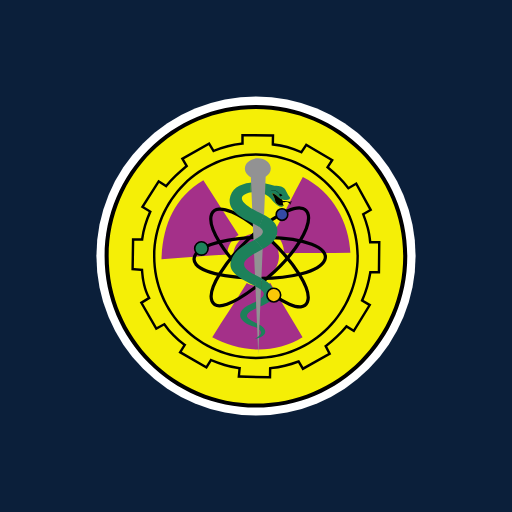
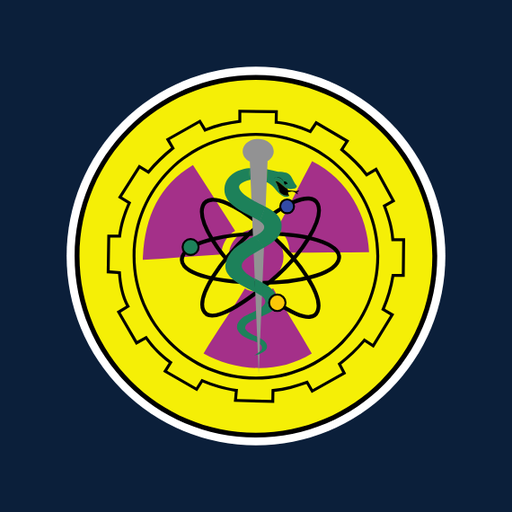
Cor da capa, telas vazias, cadastro com progresso, microanimações, ícone maior e acessibilidade
Claude-Session: https://claude.ai/code/session_017PQmU9A7DKhoiwEZxoice1

Changed region(s): [[0.125, 0.125, 0.875, 0.875]]

diff --git a/app.js b/app.js
@@ -337,6 +337,12 @@ let installEvt = null;
 const standalone = () => (window.matchMedia && window.matchMedia('(display-mode: standalone)').matches) || window.navigator.standalone === true;
 const installBtn = (cls = 'btn out') => (standalone() ? '' : `<button class="${cls}" data-action="install">${ic('download', 18)} Instalar app</button>`);
 
+function catEmpty() {
+  if (ui.cat === 'enquete') return emptyState('poll', 'Nenhuma enquete ainda', 'Crie uma enquete e ouça a opinião dos colegas.', 'new-poll', 'Criar enquete');
+  if (ui.cat === 'vagas') return emptyState('briefcase', 'Nenhuma vaga por aqui', 'Sabe de uma vaga? Divulgue para os colegas.', 'new-post', 'Divulgar vaga');
+  if (ui.cat === 'cursos') return emptyState('book', 'Nenhum curso por aqui', 'Indique um curso ou treinamento que vale a pena.', 'new-post', 'Indicar curso');
+  return emptyState('msg', 'Nada por aqui ainda', 'Seja o primeiro a publicar nesta região.', 'new-post', 'Publicar agora');
+}
 function screenWelcome() {
   return `<main class="welcome">
     <div class="wlogo">${emblem({ size: 128, text: false })}</div>
@@ -385,11 +391,12 @@ function screenSignup() {
     return `<main class="pad fit">
     <button class="ghost back" data-action="go-welcome">← Voltar</button>
     <div class="authlogo"><div class="wlogo">${emblem({ size: 76, text: false })}</div><div class="brand">UniRad</div></div>
-    <h2>Criar cadastro</h2>
+    <div class="prog" aria-label="Passo 1 de 2"><i class="on"></i><i></i></div>
+    <h2>Vamos começar</h2>
     <p class="muted">Passo 1 de 2 · seus dados de acesso</p>
     <form data-form="signup1" novalidate>
       <label>Nome completo <i class="req">*</i><input name="name" autocomplete="name" required minlength="5" placeholder="Seu nome" value="${esc(sd.name || '')}"></label>
-      <p class="muted small" style="margin-top:-4px">Depois você escolhe como seu nome aparece no app (só o primeiro nome, apelido…) em Perfil.</p>
+      <p class="muted small" style="margin-top:-4px">Depois você escolhe como seu nome aparece no app.</p>
       <label>E-mail <i class="req">*</i><input name="email" type="email" autocomplete="email" required placeholder="voce@email.com" value="${esc(sd.email || '')}"></label>
       ${pw('password', 'Senha', 'Mínimo 6 caracteres', 'new-password', sd.password || '')}
       ${pw('password2', 'Confirmar senha', 'Repita a senha', 'new-password', sd.password || '')}
@@ -400,8 +407,9 @@ function screenSignup() {
   }
   return `<main class="pad">
     <button class="ghost back" data-action="signup-back">← Voltar</button>
-    <h2>Criar cadastro</h2>
-    <p class="muted">Passo 2 de 2 · seu registro profissional</p>
+    <div class="prog" aria-label="Passo 2 de 2"><i class="on"></i><i class="on"></i></div>
+    <h2>Seu registro profissional</h2>
+    <p class="muted">Passo 2 de 2 · só quem tem CRTR entra</p>
     <form data-form="signup" novalidate>
       <label>Função <i class="req">*</i>
         <select name="role" id="roleSel" required><option value="">Selecione</option><option>Técnico em Radiologia</option><option>Tecnólogo em Radiologia</option></select></label>
@@ -413,7 +421,7 @@ function screenSignup() {
         <div class="picked" id="picked">${pickedHtml()}</div>
         <div class="reglist short" id="reglist">${regionListHtml()}</div>
       </div>
-      <p class="muted small">Seu perfil é visível para os colegas. Em cada post ou comentário você escolhe se quer publicar de forma anônima.</p>
+      <p class="muted small">${ic('lock', 14)} Seu CRTR nunca aparece para os outros. Em cada post você escolhe se quer ficar anônimo.</p>
       <label class="check"><input type="checkbox" name="terms" required><span>Li e aceito as <a href="#" data-action="show-terms">regras do UniRad</a> <i class="req">*</i></span></label>
       <div class="error" id="formError" role="alert"></div>
       <button class="btn big" type="submit">Criar cadastro</button>
@@ -598,7 +606,7 @@ function screenHome() {
     ${shortcuts()}
     ${viewSwitch(Store.mode === 'api')}
     ${composer()}
-    ${!ui.posts ? loadingBox : ui.posts.map(postCard).join('') || (ui.view === 'seguindo' ? emptyState('users', 'Você ainda não segue ninguém', 'Toque no nome de um colega e escolha Seguir para ver as publicações dele aqui.', 'open-search', 'Buscar colegas') : emptyState('msg', 'Nada por aqui ainda', 'Seja o primeiro a publicar nesta região.', 'new-post', 'Publicar agora'))}
+    ${!ui.posts ? loadingBox : ui.posts.map(postCard).join('') || (ui.view === 'seguindo' ? emptyState('users', 'Você ainda não segue ninguém', 'Toque no nome de um colega e escolha Seguir para ver as publicações dele aqui.', 'open-search', 'Buscar colegas') : catEmpty())}
     ${ui.more ? '<button class="btn out" data-action="load-more">Ver mais publicações</button>' : ''}
   </main>`;
 }
@@ -631,7 +639,7 @@ function screenDelays() {
     </div>
     <div class="row gap8"><button class="btn big" style="flex:1" data-action="new-delay">${ic('plus', 18)} Relatar atraso</button>${Store.mode === 'api' ? `<button class="btn big out" style="flex:1" data-action="pick-place">Avaliar local</button>` : ''}</div>
 
-    ${delays.recent && delays.recent.length ? `<h3 class="sec">Relatos recentes</h3><div class="list">${delays.recent.map((r) => `<div class="lrow static"><span>${esc(r.type)}${r.days ? ` · ${r.days} dias` : ''}${r.months > 1 ? ` · ${r.months} meses` : ''}<br><span class="muted small">${ago(r.t)}</span></span><b class="redtxt">${esc(fmtMonth(r.month))}</b></div>`).join('')}</div>` : ''}
+    ${delays.recent && delays.recent.length ? `<h3 class="sec">Relatos recentes</h3><div class="list">${delays.recent.map((r) => `<div class="lrow static"><span>${esc(r.type)}${r.days ? ` · ${r.days} dias` : ''}${r.months > 1 ? ` · ${r.months} meses` : ''}<br><span class="muted small">${ago(r.t)}</span></span><b class="redtxt">${esc(fmtMonth(r.month))}</b></div>`).join('')}</div>` : emptyState('alert', 'Nenhum relato por aqui', 'Quando alguém relatar um atraso ou pagamento abaixo do piso, aparece aqui. Seu relato pode ser anônimo.', 'new-delay', 'Relatar atraso')}
     ${delays.top.length ? `<div class="card"><div class="small muted">Locais mais citados</div>${delays.top.map((t) => `<div class="row between li"><span>${esc(t.hospital)}</span><b>${t.n} relatos</b></div>`).join('')}</div>`
       : `<p class="muted small">Locais aparecem aqui quando houver ao menos ${CONFIG.hideHospitalBelow} relatos sobre o mesmo, para proteger quem relata.</p>`}
   </main>`;
@@ -891,7 +899,7 @@ function screenRights() {
     ${conselhoSection()}
     ${Store.mode === 'api' && ui.union ? `<div class="unioncard"><b>Um sindicato para a nossa categoria</b>
       <p><b>${ui.union.count}</b> ${ui.union.count === 1 ? 'profissional apoia' : 'profissionais apoiam'} · meta ${unionGoal(ui.union.count)}</p>
-      <div class="ubar" role="progressbar" aria-valuemin="0" aria-valuemax="${unionGoal(ui.union.count)}" aria-valuenow="${ui.union.count}"><i style="width:${Math.max(2, Math.min(100, Math.round((ui.union.count / unionGoal(ui.union.count)) * 100)))}%"></i></div>
+      <div class="ubar" role="progressbar" aria-label="Progresso da meta do sindicato" aria-valuemin="0" aria-valuemax="${unionGoal(ui.union.count)}" aria-valuenow="${ui.union.count}"><i style="width:${Math.max(2, Math.min(100, Math.round((ui.union.count / unionGoal(ui.union.count)) * 100)))}%"></i></div>
       <p class="small">${ui.union.mine ? 'Seu apoio já conta.' : 'Seu apoio conta.'} Ninguém vê seu nome.</p>
       <button class="btn ${ui.union.mine ? 'out' : 'gold'}" data-action="union">${ui.union.mine ? 'Apoiando (tocar para retirar)' : 'Quero apoiar'}</button></div>` : ''}
     <div class="unioncard how plain"><b>Como criar um sindicato</b>
@@ -913,6 +921,7 @@ function profileForm(u) {
       <p class="muted small" style="margin-top:-4px">Pode ser só o primeiro nome, um apelido ou como preferir. Troca também nas suas publicações antigas (as anônimas continuam anônimas).</p>
       <p class="muted small">O resto é opcional. Só aparece para os outros membros quando você posta sem anonimato e alguém toca no seu nome. Seu CRTR, e-mail e senha nunca aparecem.</p>
       <label>Apresentação<input name="bio" maxlength="160" placeholder="Ex.: Técnico em radiologia há 8 anos, em Manaus" value="${esc(u.bio || '')}"></label>
+      <div class="field">Cor da capa<div class="covers" id="covers">${[0, 1, 2, 3, 4, 5].map((i) => `<button type="button" class="cvsw cv${i} ${(u.cover | 0) === i ? 'on' : ''}" data-action="pick-cover" data-v="${i}" aria-label="Capa ${i + 1}"></button>`).join('')}</div><input type="hidden" name="cover" value="${u.cover | 0}"></div>
       <label>Onde trabalha<input name="workplace" maxlength="80" placeholder="Ex.: Hospital Delfina" value="${esc(u.workplace || '')}"></label>
       <label>Capacitações<textarea name="trainings" rows="3" maxlength="500" placeholder="Cursos e treinamentos (tomografia, ressonância, radioproteção…)">${esc(u.trainings || '')}</textarea></label>
       <label>Experiências<textarea name="experience" rows="3" maxlength="500" placeholder="Onde já atuou e em quais áreas">${esc(u.experience || '')}</textarea></label>
@@ -938,7 +947,7 @@ function screenProfile() {
   const u = ui.user, api = Store.mode === 'api';
   const row = (act, label, cls = '') => `<button class="lrow ${cls}" data-action="${act}"><span>${label}</span>${ic('chev', 18)}</button>`;
   return `<main class="prof">
-    <section class="phero"><div class="pcover"></div>
+    <section class="phero"><div class="pcover cv${(u.cover | 0)}"></div>
       <div class="avwrap">${avatar(u.name, u.avatar, 'xl')}${api ? `<input type="file" id="avatarIn" accept="image/*" hidden><button class="avedit" data-action="change-avatar" aria-label="Trocar foto">${ic('camera', 16)}</button>` : ''}</div>
       <h2 class="pname">${esc(u.name)}${vbadge(u.verified)}</h2>
       <div class="muted">${esc(u.role)} · ${esc(regionLabel(u.region).split(' · ')[0])}</div>
@@ -987,7 +996,7 @@ function modalUser() {
   const list = ui.userPosts === null ? '<p class="muted small">Carregando…</p>' : ui.userPosts.length
     ? ui.userPosts.map((p) => `<div class="upost"><div class="muted small">${esc(CAT_NAME[p.cat] || 'Publicação')} · ${ago(p.t)}</div><div>${esc(p.text).slice(0, 220)}${p.text.length > 220 ? '…' : ''}</div></div>`).join('')
     : emptyState('msg', 'Nada por aqui ainda', 'Quando essa pessoa publicar abertamente, aparece aqui.');
-  return sheet(u.name, `<div class="uhero"><div class="pcover"></div>${big}${who}
+  return sheet(u.name, `<div class="uhero"><div class="pcover cv${(u.cover | 0)}"></div>${big}${who}
     ${u.bio ? `<div class="ubio">${esc(u.bio)}</div>` : ''}${u.workplace ? `<div class="pchips"><span class="pchip">${ic('pin', 14)} ${esc(u.workplace)}</span></div>` : ''}
     <div class="ustats"><div><b>${u.posts}</b><span>posts</span></div><div><b id="ufollowers">${u.followers}</b><span>seguidores</span></div><div><b>${u.following}</b><span>seguindo</span></div></div>
     ${followBtn(u)}
@@ -1081,7 +1090,7 @@ function modalFollowers() {
   return sheet('Seguidores e pedidos', `<h4 class="usec">Pedidos (${d.requests.length})</h4>
     ${d.requests.map((r) => row(r, `<button class="btn sm" data-action="req" data-act="approve" data-id="${r.id}">Aprovar</button><button class="btn out sm" data-action="req" data-act="decline" data-id="${r.id}">Recusar</button>`)).join('') || '<p class="muted small">Nenhum pedido no momento.</p>'}
     <h4 class="usec">Seguidores (${d.followers.length})</h4>
-    ${d.followers.map((r) => row(r, `<button class="btn out sm" data-action="req" data-act="remove" data-id="${r.id}">Remover</button>`)).join('') || '<p class="muted small">Ninguém segue você ainda.</p>'}`);
+    ${d.followers.map((r) => row(r, `<button class="btn out sm" data-action="req" data-act="remove" data-id="${r.id}">Remover</button>`)).join('') || emptyState('users', 'Ninguém segue você ainda', 'Publique e comente para os colegas encontrarem você.')}`);
 }
 
 const MESES_CURTO = ['Jan', 'Fev', 'Mar', 'Abr', 'Mai', 'Jun', 'Jul', 'Ago', 'Set', 'Out', 'Nov', 'Dez'];
@@ -1612,6 +1621,7 @@ document.addEventListener('click', async (ev) => {
       return refresh({ quiet: true });
     }
     if (a === 'copy-link') { try { await navigator.clipboard.writeText(location.origin); toast('Link copiado.'); } catch { toast(location.origin); } return; }
+    if (a === 'pick-cover') { const f = el.closest('form'); f.elements.cover.value = el.dataset.v; f.querySelectorAll('.cvsw').forEach((b) => b.classList.toggle('on', b === el)); const pv = document.querySelector('.cvprev'); return; }
     if (a === 'open-calc') return openModal('calc');
     if (a === 'calc-mode') { ui.calc.mode = el.dataset.v; return render(); }
     if (a === 'calc-esc') {
@@ -1809,7 +1819,7 @@ document.addEventListener('submit', async (ev) => {
     if (kind === 'profile') {
       const dn = String(d.get('dname') || '').trim().replace(/\s+/g, ' ');
       if (dn.length < 2) return err('Digite o nome que vai aparecer (mínimo 2 letras).');
-      const p = { name: dn, bio: String(d.get('bio') || '').trim(), trainings: String(d.get('trainings') || '').trim(), experience: String(d.get('experience') || '').trim(), workplace: String(d.get('workplace') || '').trim() };
+      const p = { name: dn, bio: String(d.get('bio') || '').trim(), trainings: String(d.get('trainings') || '').trim(), experience: String(d.get('experience') || '').trim(), workplace: String(d.get('workplace') || '').trim(), cover: Number(d.get('cover')) || 0 };
       busy(f, true);
       try { await Store.saveProfile(p); } finally { busy(f, false); }
       Object.assign(ui.user, p); toast('Perfil salvo.'); if (ui.modal === 'editprofile') closeModal();

diff --git a/styles.css b/styles.css
@@ -189,7 +189,7 @@ body.dark-welcome{background:var(--navy)}
 .drow[hidden],#vagaExtra[hidden],#pollExtra[hidden]{display:none}
 .composer .fake{white-space:nowrap;overflow:hidden;text-overflow:ellipsis}
 .invite{padding:14px}.invite p{margin:2px 0 8px}
-.btn.wa{background:#1fa855;color:#fff;text-decoration:none}
+.btn.wa{background:#14803d;color:#fff;text-decoration:none}
 .linkname{font:inherit;font-weight:600;color:inherit;padding:0;text-align:left}
 .linkname:active{text-decoration:underline}
 .ublk{margin:10px 0}.ublk p{margin:2px 0 0}
@@ -826,7 +826,7 @@ html[data-theme=dark] .story .lbl{color:var(--text)}
 .btn{background:var(--gold);color:var(--navy);font-weight:800;border-radius:26px;white-space:nowrap}
 .btn:disabled{opacity:.6}
 .btn.out{background:transparent;border:1.5px solid var(--navy);color:var(--navy);font-weight:700}
-.btn.wa{background:#1fa855;color:#fff}
+.btn.wa{background:#14803d;color:#fff}
 .btn.danger{color:var(--red);border-color:var(--red)}
 .btn.slim{background:transparent;border:0;color:#8fb8ff}
 .stickybtns .btn.out{flex:1}
@@ -841,7 +841,7 @@ input.sw:checked{background:var(--gold)}
 .utabs button.on::after{content:"";position:absolute;left:0;right:0;bottom:-1px;height:3px;border-radius:3px;background:var(--gold)}
 .unioncard.plain{background:var(--card);border:1px solid var(--line2);border-left:4px solid var(--gold);border-radius:14px}
 .unioncard.plain b{color:var(--text)}.unioncard.plain p{color:var(--muted)}
-html[data-theme=dark] .btn.wa{background:#1fa855;color:#fff}
+html[data-theme=dark] .btn.wa{background:#14803d;color:#fff}
 html[data-theme=dark] .btn.out{background:transparent;border-color:rgba(255,255,255,.5);color:#eef3ff}
 html[data-theme=dark] .btn.danger{color:#ff8a80;border-color:#ff8a80}
 html[data-theme=dark] .phd h2{color:var(--text)}
@@ -936,3 +936,26 @@ html[data-theme=dark] .empty .emic{color:var(--gold)}
 .cres.plain{background:var(--bg2,#f0f3f8);color:var(--text)}html[data-theme=dark] .cres.plain{background:#1b2538;color:#e8edf6}
 .money{font-weight:700;letter-spacing:.2px}
 #gsheet .utabs{margin:6px 0 10px}
+/* ---- capas do perfil ---- */
+.cv0{background:linear-gradient(135deg,#0b1f3a 0%,#1d4f8f 70%,#f5b301 190%)!important}
+.cv1{background:linear-gradient(135deg,#0d3b2e 0%,#1f8a5b 75%,#f5b301 200%)!important}
+.cv2{background:linear-gradient(135deg,#2a1450 0%,#6b3fb5 75%,#f58ac1 200%)!important}
+.cv3{background:linear-gradient(135deg,#7a2e0a 0%,#e0701f 75%,#f5d301 200%)!important}
+.cv4{background:linear-gradient(135deg,#4a0d1f 0%,#b3263f 75%,#f5b301 200%)!important}
+.cv5{background:linear-gradient(135deg,#1c2430 0%,#47566b 75%,#9fb3cc 200%)!important}
+.covers{display:flex;gap:10px;margin:6px 0 10px}
+.cvsw{width:44px;height:44px;border-radius:50%;border:3px solid transparent;padding:0;cursor:pointer;box-shadow:0 0 0 1px var(--line2)}
+.cvsw.on{border-color:var(--card);box-shadow:0 0 0 3px var(--gold)}
+/* ---- cadastro: progresso ---- */
+.prog{display:flex;gap:6px;margin:6px 0 14px}.prog i{flex:1;height:5px;border-radius:99px;background:var(--line2)}.prog i.on{background:var(--gold)}
+/* ---- microanimações ---- */
+.btn,.pill,.act,.nav button,.chip2,.srp,.calccard{transition:transform .12s ease,background-color .2s ease,color .2s ease,border-color .2s ease}
+.btn:active,.pill:active,.chip2:active,.calccard:active{transform:scale(.97)}
+.act:active{transform:scale(.88)}
+.nav button.on svg{animation:pop .3s ease}
+.sheet .utabs button{transition:color .2s ease,border-color .2s ease}
+.cres,.chora,.empty{animation:fadeUp .22s ease both}
+@keyframes fadeUp{from{opacity:0;transform:translateY(6px)}to{opacity:1;transform:none}}
+.chip2.on,.pill.on{animation:pop .22s ease}
+.toast{animation:fadeUp .2s ease both}
+@media (prefers-reduced-motion:reduce){.btn,.pill,.act,.nav button,.chip2,.cres,.chora,.empty,.toast{transition:none;animation:none}.nav button.on svg,.chip2.on,.pill.on{animation:none}}

diff --git a/worker/index.js b/worker/index.js
@@ -66,12 +66,12 @@ async function currentUser(req, env) {
   const token = getCookie(req, 'unirad_session');
   if (!token) return null;
   const row = await env.DB.prepare(
-    'SELECT u.id, u.name, u.role, u.region, u.anon_default, u.bio, u.trainings, u.experience, u.workplace, u.avatar, u.is_private, u.is_admin, u.verified, u.last_seen FROM sessions s JOIN users u ON u.id = s.user_id WHERE s.token_hash = ? AND s.expires_at > ? AND u.suspended = 0'
+    'SELECT u.id, u.name, u.role, u.region, u.anon_default, u.bio, u.trainings, u.experience, u.workplace, u.cover, u.avatar, u.is_private, u.is_admin, u.verified, u.last_seen FROM sessions s JOIN users u ON u.id = s.user_id WHERE s.token_hash = ? AND s.expires_at > ? AND u.suspended = 0'
   ).bind(await sha256(token), Date.now()).first();
   if (row && Date.now() - row.last_seen > 3600000) await env.DB.prepare('UPDATE users SET last_seen = ? WHERE id = ?').bind(Date.now(), row.id).run();
   return row || null;
 }
-const publicUser = (u) => ({ id: u.id, name: u.name, role: u.role, region: u.region, anon: !!u.anon_default, bio: u.bio || '', trainings: u.trainings || '', experience: u.experience || '', workplace: u.workplace || '', avatar: u.avatar || '', private: !!u.is_private, admin: !!u.is_admin, verified: !!u.verified });
+const publicUser = (u) => ({ id: u.id, name: u.name, role: u.role, region: u.region, anon: !!u.anon_default, bio: u.bio || '', trainings: u.trainings || '', experience: u.experience || '', workplace: u.workplace || '', cover: u.cover | 0, avatar: u.avatar || '', private: !!u.is_private, admin: !!u.is_admin, verified: !!u.verified });
 
 async function readJson(req) {
   const ct = req.headers.get('content-type') || '';
@@ -798,6 +798,7 @@ export default {
             env.DB.prepare('UPDATE comments SET author_name = ? WHERE user_id = ?').bind(nm, user.id),
           ]);
         }
+        if ('cover' in b) await env.DB.prepare('UPDATE users SET cover = ? WHERE id = ?').bind(Math.max(0, Math.min(5, Number(b.cover) | 0)), user.id).run();
         if ('workplace' in b) await env.DB.prepare('UPDATE users SET workplace = ? WHERE id = ?').bind(str(b.workplace, 80), user.id).run();
         if ('bio' in b || 'trainings' in b || 'experience' in b) {
           await env.DB.prepare('UPDATE users SET bio = ?, trainings = ?, experience = ? WHERE id = ?')
@@ -829,7 +830,7 @@ export default {
         return json({ ok: true });
       }
       if (um && !um[2] && m === 'GET') {
-        const u = await env.DB.prepare('SELECT name, role, region, bio, trainings, experience, workplace, avatar, is_private, verified FROM users WHERE id = ?').bind(um[1]).first();
+        const u = await env.DB.prepare('SELECT name, role, region, bio, trainings, experience, workplace, cover, avatar, is_private, verified FROM users WHERE id = ?').bind(um[1]).first();
         if (!u) throw new HttpError(404, 'Perfil não encontrado.');
         const q = async (sql, ...a) => (await env.DB.prepare(sql).bind(...a).first()).n;
         const me = um[1] === user.id;
@@ -841,7 +842,7 @@ export default {
           q("SELECT COUNT(*) AS n FROM follows WHERE followee_id = ? AND status = 'ok'", um[1]),
           q("SELECT COUNT(*) AS n FROM follows WHERE follower_id = ? AND status = 'ok'", um[1])
         ]);
-        return json({ user: { ...base, restricted: false, workplace: u.workplace || '', bio: u.bio || '', trainings: u.trainings || '', experience: u.experience || '', posts, followers, following } });
+        return json({ user: { ...base, restricted: false, cover: u.cover | 0, workplace: u.workplace || '', bio: u.bio || '', trainings: u.trainings || '', experience: u.experience || '', posts, followers, following } });
       }
       if (p === '/api/places' && m === 'GET') {
         const sc = url.searchParams.get('scope') || 'brasil';

diff --git a/sw.js b/sw.js
@@ -1,4 +1,4 @@
-const CACHE = 'unirad-v63';
+const CACHE = 'unirad-v64';
 const FILES = ['./', 'index.html', 'styles.css', 'app.js', 'data.js', 'emblem.js', 'store.js', 'fonts/bitter-unirad.woff', 'manifest.webmanifest', 'icons/icon.svg', 'icons/icon-192.png', 'icons/icon-512.png', 'icons/badge.png'];
 
 self.addEventListener('install', (e) => {
